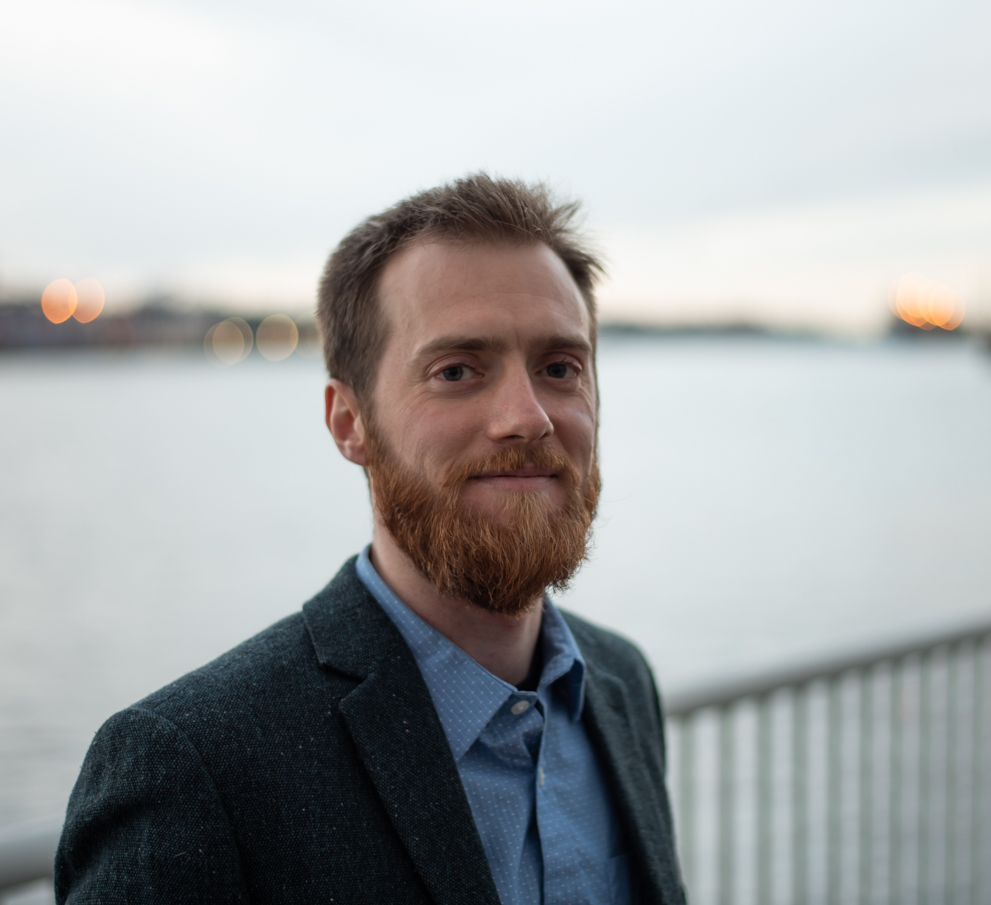
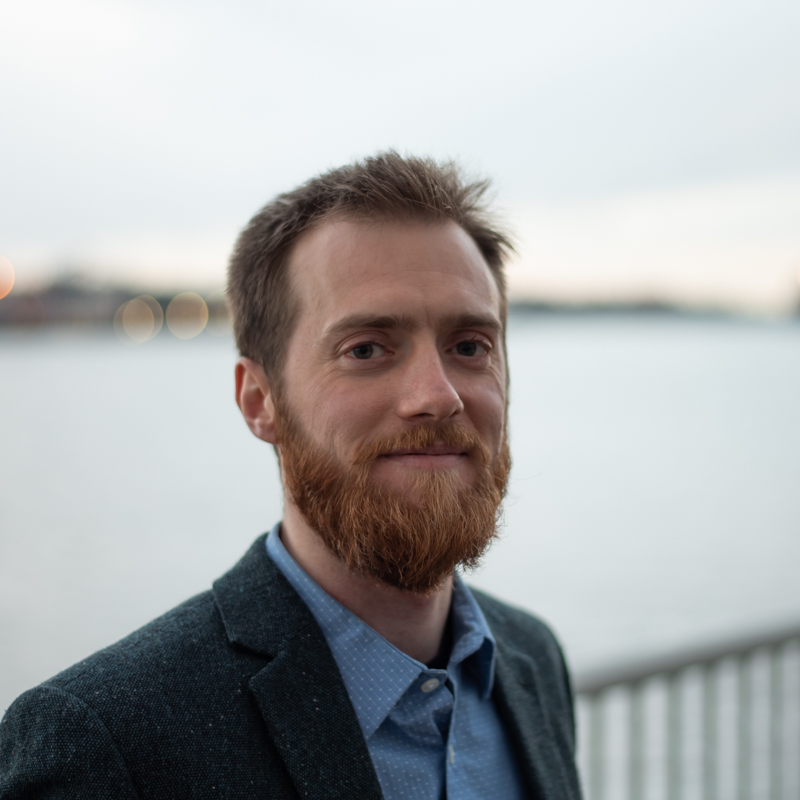
People page fix

Changed region(s): [[0.0, 0.1875, 1.0, 1.0], [0.2812, 0.7812, 0.375, 0.8438]]

diff --git a/about/directors/index.html b/about/directors/index.html
@@ -70,21 +70,11 @@
     </div>
     <div class="column">
       <div class="card">
-        <img src="assets/directors/PaulPavlidis.jpg">
+        <img src="assets/directors/FarazHach.jpg">
         <div class="container">
-          <h3>Dr. Paul Pavlidis</h3>
+          <h3>Dr. Faraz Hach</h3>
           <p class="title">PhD</p>
           <p>Associate Director, UBC</p>
-        </div>
-      </div>
-    </div>
-    <div class="column">
-      <div class="card">
-        <img src="assets/directors/FionaBrinkman.jpg">
-        <div class="container">
-          <h3>Dr. Fiona Brinkman</h3>
-          <p class="title">PhD</p>
-          <p>Associate Director, SFU</p>
         </div>
       </div>
     </div>
